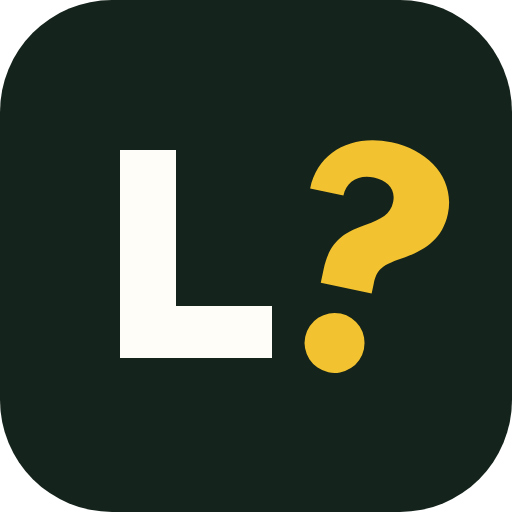
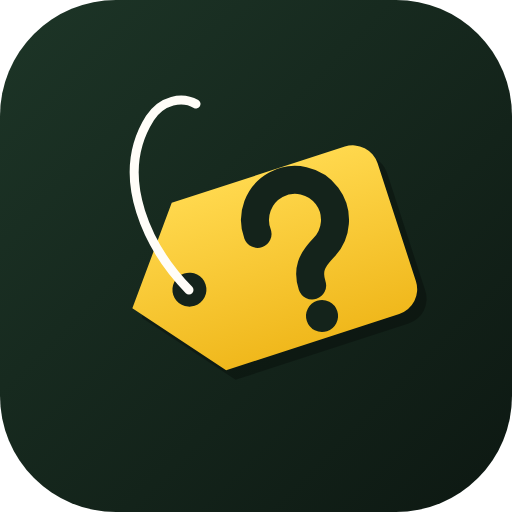
v1.1.0: nytt ikon, splash, versjonsnummer, fikset manifest, innebygd prisnøkkel
Claude-Session: https://claude.ai/code/session_017b8AQnjy18SwZmpN5YjpoW

diff --git a/index.html b/index.html
@@ -8,7 +8,8 @@
   <meta name="theme-color" content="#14231b">
   <link rel="manifest" href="manifest.json">
   <link rel="icon" href="icon.svg" type="image/svg+xml">
-  <link rel="apple-touch-icon" href="icon-192.png">
+  <link rel="icon" href="favicon-48.png" sizes="48x48" type="image/png">
+  <link rel="apple-touch-icon" href="apple-touch-icon.png">
   <meta name="apple-mobile-web-app-capable" content="yes">
   <meta name="apple-mobile-web-app-status-bar-style" content="black-translucent">
   <link rel="preconnect" href="https://fonts.googleapis.com">
@@ -17,8 +18,15 @@
   <link rel="stylesheet" href="style.css">
 </head>
 <body>
+  <div id="splash" aria-hidden="true">
+    <img src="icon.svg" alt="" class="splash-logo">
+    <div class="splash-name">Lurt<span>?</span></div>
+    <div class="splash-tag">Er det et godt kjøp?</div>
+    <div class="splash-ver" data-version></div>
+  </div>
+
   <header class="top">
-    <div class="brand">Lurt<span>?</span></div>
+    <div class="brand"><img src="icon.svg" alt="" class="brand-logo">Lurt<span>?</span></div>
     <button id="storeChip" class="chip store" type="button">📍 <span id="storeName">Velg butikk</span> ▾</button>
   </header>
 
@@ -53,6 +61,7 @@
 
       <div id="status" class="status hidden"></div>
       <button id="demoBtn" class="link hidden" type="button">Prøv med eksempeldata</button>
+      <p class="version muted small center">Lurt? <span data-version></span></p>
     </section>
 
     <!-- VELG VARE (etter søk / bilde) -->
@@ -85,9 +94,16 @@
     <!-- INNSTILLINGER -->
     <section id="scr-settings" class="screen">
       <h2>Innstillinger</h2>
-      <div class="card">
-        <h3>Prisdata (gratis)</h3>
-        <p class="small">Lurt? henter priser fra <a href="https://kassal.app" target="_blank" rel="noopener">Kassalapp</a>, som samler priser fra norske dagligvarekjeder. Det er gratis for privat bruk, men du trenger en egen nøkkel:</p>
+      <div class="card hidden" id="builtinKey">
+        <h3>Prisdata</h3>
+        <p class="small">✅ Appen er satt opp med prisdata fra <a href="https://kassal.app" target="_blank" rel="noopener">Kassalapp</a> – du trenger ikke gjøre noe.</p>
+        <button id="testBuiltin" class="btn" type="button">Test tilkoblingen</button>
+        <p id="builtinStatus" class="small"></p>
+      </div>
+
+      <details class="card" id="ownKeyCard" open>
+        <summary><h3>Egen API-nøkkel</h3></summary>
+        <p class="small" id="ownKeyIntro">Lurt? henter priser fra <a href="https://kassal.app" target="_blank" rel="noopener">Kassalapp</a>, som samler priser fra norske dagligvarekjeder. Det er gratis for privat bruk, men du trenger en egen nøkkel:</p>
         <ol class="small steps">
           <li>Åpne <a href="https://kassal.app/profil/api" target="_blank" rel="noopener">kassal.app/profil/api</a> og logg inn (gratis konto).</li>
           <li>Lag en ny API-nøkkel og kopier den.</li>
@@ -99,7 +115,7 @@
         <button id="saveKey" class="btn primary" type="button">Lagre og test</button>
         <p id="keyStatus" class="small"></p>
         <p class="muted small">Nøkkelen lagres bare på denne telefonen.</p>
-      </div>
+      </details>
 
       <div class="card">
         <h3>Butikk</h3>
@@ -141,6 +157,7 @@
     </form>
   </dialog>
 
+  <script src="config.js"></script>
   <script src="api.js"></script>
   <script src="verdict.js"></script>
   <script src="scan.js"></script>

diff --git a/app.js b/app.js
@@ -1,6 +1,8 @@
 // app.js — skjermer og logikk for Lurt?
 'use strict';
 
+const APP_VERSION = '1.1.0';
+
 const $ = (s, el = document) => el.querySelector(s);
 const $$ = (s, el = document) => [...el.querySelectorAll(s)];
 const esc = (s) => String(s ?? '').replace(/[&<>"']/g, c => ({ '&': '&amp;', '<': '&lt;', '>': '&gt;', '"': '&quot;', "'": '&#39;' }[c]));
@@ -75,7 +77,7 @@ function getLocation() {
 async function autoStore() {
   const saved = JSON.parse(sessionStorage.getItem('lurt.chain') || 'null');
   if (saved) { setChain(saved.chain, saved.label); }
-  if (settings().autoStore === false || !settings().apiKey) return;
+  if (settings().autoStore === false || !API.access().ready) return;
   const loc = await getLocation();
   if (!loc) return;
   state.loc = loc;
@@ -93,7 +95,7 @@ async function openStoreDlg() {
     `<button class="chip ${k === state.chain ? 'on' : ''}" value="${k}" data-chain="${k}">${esc(n)}</button>`).join('');
   $('#nearList').innerHTML = '<p class="muted small">Finner butikker i nærheten …</p>';
   dlg.showModal();
-  if (!settings().apiKey) { $('#nearList').innerHTML = ''; return; }
+  if (!API.access().ready) { $('#nearList').innerHTML = ''; return; }
   const loc = state.loc || await getLocation();
   if (!loc) { $('#nearList').innerHTML = '<p class="muted small">Fikk ikke tak i posisjonen.</p>'; return; }
   state.loc = loc;
@@ -493,7 +495,17 @@ function loadSettingsForm() {
   $('#apiKey').value = s.apiKey || '';
   $('#proxy').value = s.proxy || '';
   $('#autoStore').checked = s.autoStore !== false;
+  const bi = API.builtIn();
+  $('#builtinKey').classList.toggle('hidden', !bi);
+  $('#ownKeyCard').open = !bi || !!s.apiKey;
+  $('#ownKeyCard summary h3').textContent = bi ? 'Bruk egen API-nøkkel (valgfritt)' : 'API-nøkkel';
 }
+$('#testBuiltin').addEventListener('click', async () => {
+  const st = $('#builtinStatus');
+  st.textContent = 'Tester …'; st.className = 'small';
+  try { await API.test(); st.textContent = '✅ Det virker!'; st.className = 'small good'; }
+  catch (e) { st.innerHTML = '❌ ' + apiErrorText(e); st.className = 'small bad'; }
+});
 $('#saveKey').addEventListener('click', async () => {
   saveSettings({ apiKey: $('#apiKey').value.trim() });
   const st = $('#keyStatus');
@@ -511,12 +523,20 @@ $('#clearHist').addEventListener('click', () => { store.set('history', []); aler
 
 // ---------- Oppstart ----------
 function refreshDemoBtn() {
-  const hasKey = !!settings().apiKey;
+  const hasKey = API.access().ready;
   $('#demoBtn').classList.toggle('hidden', hasKey);
   if (!hasKey) status('For å hente ekte priser trenger du en gratis nøkkel fra Kassalapp. <a href="#" data-go-settings>Sett opp (2 min)</a>', 'info');
   else status('');
 }
 $('#demoBtn').addEventListener('click', () => { if (!state.chain) setChain('kiwi', 'Kiwi (demo)'); openEan(API.DEMO_EAN); });
+
+// Versjon og splash
+$$('[data-version]').forEach(el => el.textContent = 'v' + APP_VERSION);
+setTimeout(() => {
+  const sp = $('#splash');
+  sp.classList.add('out');
+  setTimeout(() => sp.remove(), 400);
+}, 1500);
 
 refreshDemoBtn();
 autoStore();

diff --git a/api.js b/api.js
@@ -28,15 +28,25 @@ const API = (() => {
   const chainName = (key) => (CHAINS.find(c => c[0] === key) || [null, null])[1];
 
   // ---------- HTTP ----------
+  // Brukerens egen nøkkel/proxy vinner; ellers brukes det som er bygget inn i appen.
+  function access() {
+    const s = settings(), c = window.LURT_CONFIG || {};
+    const ownKey = (s.apiKey || '').trim(), ownProxy = (s.proxy || '').trim();
+    const key = ownKey || (ownProxy ? '' : (c.apiKey || '').trim());
+    const proxy = ownProxy || (ownKey ? '' : (c.proxy || '').trim());
+    return { key, proxy, own: !!(ownKey || ownProxy), ready: !!(key || proxy) };
+  }
+  const builtIn = () => { const c = window.LURT_CONFIG || {}; return !!((c.apiKey || '').trim() || (c.proxy || '').trim()); };
+
   async function get(path) {
-    const s = settings();
-    if (!s.apiKey) throw new ApiError('nokey', 'Mangler API-nøkkel');
-    const base = (s.proxy || '').trim() ? s.proxy.trim().replace(/\/$/, '') : BASE;
+    const a = access();
+    if (!a.ready) throw new ApiError('nokey', 'Mangler API-nøkkel');
+    const base = a.proxy ? a.proxy.replace(/\/$/, '') : BASE;
+    const headers = { 'Accept': 'application/json' };
+    if (a.key) headers['Authorization'] = 'Bearer ' + a.key;
     let res;
     try {
-      res = await fetch(base + path, {
-        headers: { 'Authorization': 'Bearer ' + s.apiKey.trim(), 'Accept': 'application/json' },
-      });
+      res = await fetch(base + path, { headers });
     } catch (e) {
       throw new ApiError(navigator.onLine ? 'network' : 'offline', e.message);
     }
@@ -217,5 +227,5 @@ const API = (() => {
     };
   }
 
-  return { byEan, search, nearbyStores, test, chainKey, chainName, CHAINS, clearCache, ApiError, DEMO_EAN, distKm, settings };
+  return { access, builtIn, byEan, search, nearbyStores, test, chainKey, chainName, CHAINS, clearCache, ApiError, DEMO_EAN, distKm, settings };
 })();

diff --git a/worker.js b/worker.js
@@ -4,14 +4,16 @@
 //   1. Gå til https://dash.cloudflare.com → Workers & Pages → Create → Create Worker
 //   2. Gi den et navn (f.eks. lurt-proxy) → Deploy → Edit code
 //   3. Lim inn hele denne filen → Deploy
-//   4. Kopier adressen (https://lurt-proxy.<navn>.workers.dev) inn under
-//      Innstillinger → Avansert: proxy i Lurt?
-// API-nøkkelen din sendes videre fra appen; den lagres ikke i proxyen.
+//   4. Settings → Variables and Secrets → Add → Type «Secret», navn KASSAL_KEY,
+//      verdi = Kassalapp-nøkkelen din → Deploy
+//   5. Legg adressen (https://lurt-proxy.<navn>.workers.dev) inn som secret PROXY_URL
+//      i GitHub-repoet (se README). Da trenger ingen brukere nøkkel, og nøkkelen er skjult.
+// Uten KASSAL_KEY sendes nøkkelen fra appen videre i stedet.
 
 const ALLOWED_ORIGIN = 'https://khalm.github.io';
 
 export default {
-  async fetch(request) {
+  async fetch(request, env) {
     const cors = {
       'Access-Control-Allow-Origin': ALLOWED_ORIGIN,
       'Access-Control-Allow-Headers': 'Authorization, Accept, Content-Type',
@@ -21,11 +23,13 @@ export default {
     if (request.method === 'OPTIONS') return new Response(null, { headers: cors });
 
     const url = new URL(request.url);
+    // Bare lese-oppslag appen trenger
+    if (!/^\/(products|physical-stores)/.test(url.pathname)) return new Response('Not found', { status: 404, headers: cors });
     const target = 'https://kassal.app/api/v1' + url.pathname + url.search;
     const res = await fetch(target, {
       method: request.method,
       headers: {
-        'Authorization': request.headers.get('Authorization') || '',
+        'Authorization': env && env.KASSAL_KEY ? 'Bearer ' + env.KASSAL_KEY : (request.headers.get('Authorization') || ''),
         'Accept': 'application/json',
         'Content-Type': request.headers.get('Content-Type') || 'application/json',
       },

diff --git a/style.css b/style.css
@@ -50,6 +50,25 @@ code { font-size: .85em; background: var(--chip); padding: 1px 5px; border-radiu
   background: var(--brand); color: #fff;
 }
 .brand { font: 800 1.7rem/1 "Bricolage Grotesque", sans-serif; letter-spacing: -.02em; }
+.brand { display: flex; align-items: center; }
+.brand-logo { width: 34px; height: 34px; border-radius: 9px; margin-right: 9px; }
+.version { margin-top: 18px; opacity: .8; }
+
+/* Splash */
+#splash {
+  position: fixed; inset: 0; z-index: 100; display: flex; flex-direction: column; align-items: center; justify-content: center; gap: 6px;
+  background: radial-gradient(circle at 50% 40%, #1d3527, #0d1812 70%); color: #fff;
+  transition: opacity .35s ease, transform .35s ease;
+}
+#splash.out { opacity: 0; transform: scale(1.04); pointer-events: none; }
+.splash-logo { width: 132px; height: 132px; border-radius: 30px; box-shadow: 0 18px 50px rgba(0,0,0,.45); animation: pop .6s cubic-bezier(.2,1.4,.4,1) both; }
+.splash-name { font: 800 2.6rem/1 "Bricolage Grotesque", Inter, sans-serif; margin-top: 18px; letter-spacing: -.02em; animation: rise .5s .15s ease both; }
+.splash-name span { color: var(--accent); display: inline-block; transform: rotate(12deg); }
+.splash-tag { color: #cfd6d0; font-size: 1rem; animation: rise .5s .25s ease both; }
+.splash-ver { position: absolute; bottom: calc(26px + env(safe-area-inset-bottom)); color: #8d9890; font-size: .85rem; }
+@keyframes pop { from { transform: scale(.6) rotate(-12deg); opacity: 0; } }
+@keyframes rise { from { transform: translateY(10px); opacity: 0; } }
+
 .brand span { color: var(--accent); display: inline-block; transform: rotate(12deg); margin-left: 1px; }
 .chip.store { background: rgba(255,255,255,.12); color: #fff; max-width: 58vw; overflow: hidden; text-overflow: ellipsis; white-space: nowrap; }
 

diff --git a/sw.js b/sw.js
@@ -1,6 +1,6 @@
 // sw.js — gjør appen installerbar og lar den åpne uten nett
-const VERSION = 'lurt-v1';
-const CORE = ['./', 'index.html', 'style.css', 'app.js', 'api.js', 'verdict.js', 'scan.js', 'manifest.json', 'icon.svg', 'icon-192.png', 'icon-512.png'];
+const VERSION = 'lurt-1.1.0';
+const CORE = ['./', 'index.html', 'style.css', 'config.js', 'app.js', 'api.js', 'verdict.js', 'scan.js', 'manifest.json', 'icon.svg', 'icon-192.png', 'icon-512.png', 'icon-maskable-512.png', 'apple-touch-icon.png', 'favicon-48.png'];
 
 self.addEventListener('install', (e) => {
   e.waitUntil(caches.open(VERSION).then(c => c.addAll(CORE)).then(() => self.skipWaiting()));
@@ -30,6 +30,6 @@ self.addEventListener('fetch', (e) => {
       const copy = res.clone();
       caches.open(VERSION).then(c => c.put(e.request, copy));
       return res;
-    }).catch(() => caches.match(e.request).then(r => r || caches.match('index.html'))));
+    }).catch(() => caches.match(e.request, { ignoreSearch: true }).then(r => r || caches.match('index.html'))));
   }
 });

diff --git a/config.js b/config.js
@@ -1,0 +1,7 @@
+// config.js — innebygd oppsett.
+// Denne filen skrives på nytt automatisk når appen publiseres (se .github/workflows/pages.yml),
+// med verdier fra repoets «Secrets». Ikke lim inn nøkler her direkte.
+window.LURT_CONFIG = {
+  apiKey: '',   // fra secret KASSAL_KEY
+  proxy: '',    // fra secret PROXY_URL (Cloudflare-proxy som har nøkkelen selv)
+};

diff --git a/README.md b/README.md
@@ -1,4 +1,6 @@
-# Lurt? 🛒
+# Lurt? 🏷
+
+<img src="icon-512.png" width="96" alt="Lurt?-logo">
 
 Er kjøpet lurt – eller blir du lurt? Skann en vare i butikken og få svaret.
 
@@ -20,16 +22,20 @@ Er kjøpet lurt – eller blir du lurt? Skann en vare i butikken og få svaret.
    - Nærmeste butikk i den billigste kjeden
 4. **Følg prisen** på varer du kjøper ofte, og se om de har blitt billigere neste gang du åpner appen.
 
-## Første gang: gratis nøkkel (2 min)
-Prisene kommer fra [Kassalapp](https://kassal.app), som samler priser fra norske dagligvarekjeder. Det er gratis for privat bruk:
-1. Gå til [kassal.app/profil/api](https://kassal.app/profil/api) og lag en gratis konto.
-2. Lag en API-nøkkel og kopier den.
-3. I Lurt?: **Innstillinger → lim inn → Lagre og test**.
+## Prisdata: bygg inn nøkkelen én gang (brukerne slipper)
+Prisene kommer fra [Kassalapp](https://kassal.app) (gratis for privat bruk). Nøkkelen legges inn **én gang i GitHub**, så bygges den inn i appen automatisk:
+1. Hent nøkkel på [kassal.app/profil/api](https://kassal.app/profil/api).
+2. I repoet: **Settings → Secrets and variables → Actions → New repository secret**. Navn: `KASSAL_KEY`, verdi: nøkkelen.
+3. **Settings → Pages → Source: GitHub Actions** (én gang).
+4. **Actions → Publiser appen → Run workflow** (eller bare gjør en endring).
 
-Nøkkelen lagres bare på telefonen din. Uten nøkkel kan du trykke «Prøv med eksempeldata» for å se hvordan appen ser ut.
+Nøkkelen ligger da ikke i koden i repoet, men den kan sees av noen som graver i den publiserte siden. For å skjule den helt: sett opp gratis Cloudflare-proxy (`worker.js`) med nøkkelen som secret der, og legg adressen inn som GitHub-secret `PROXY_URL` i stedet.
+
+Den som vil, kan fortsatt bruke egen nøkkel under **Innstillinger**. Uten nøkkel kan du trykke «Prøv med eksempeldata».
 
 ## Installer på telefonen
-- **Android (Chrome):** åpne lenken → ⋮ → **Installer app**.
+- **Android (Chrome):** åpne lenken → ⋮ → **Installer app**. På Pixel havner nye apper i **appskuffen** (sveip opp), ikke automatisk på hjemskjermen.
+  - Sier Chrome «This app is already installed» uten at du finner den: sveip opp og søk «Lurt». Finnes den ikke, gå til Innstillinger → Apper → Lurt? → Avinstaller, og installer på nytt.
 - **iPhone (Safari):** åpne lenken → Del → **Legg til på Hjem-skjerm**.
 
 ## Helt gratis
@@ -54,4 +60,6 @@ Ren HTML/CSS/JavaScript uten byggesteg, hostet på GitHub Pages. Kan redigeres r
 - `scan.js` – kamera, strekkodeleser og lesing av hyllelapper
 - `style.css` – utseende
 - `sw.js`, `manifest.json` – installerbar app som åpner uten nett
+- `config.js` – innebygd nøkkel/proxy (skrives av `.github/workflows/pages.yml`)
+- `icon.svg` – logo (PNG-ikonene er laget fra den)
 - `worker.js` – valgfri proxy
